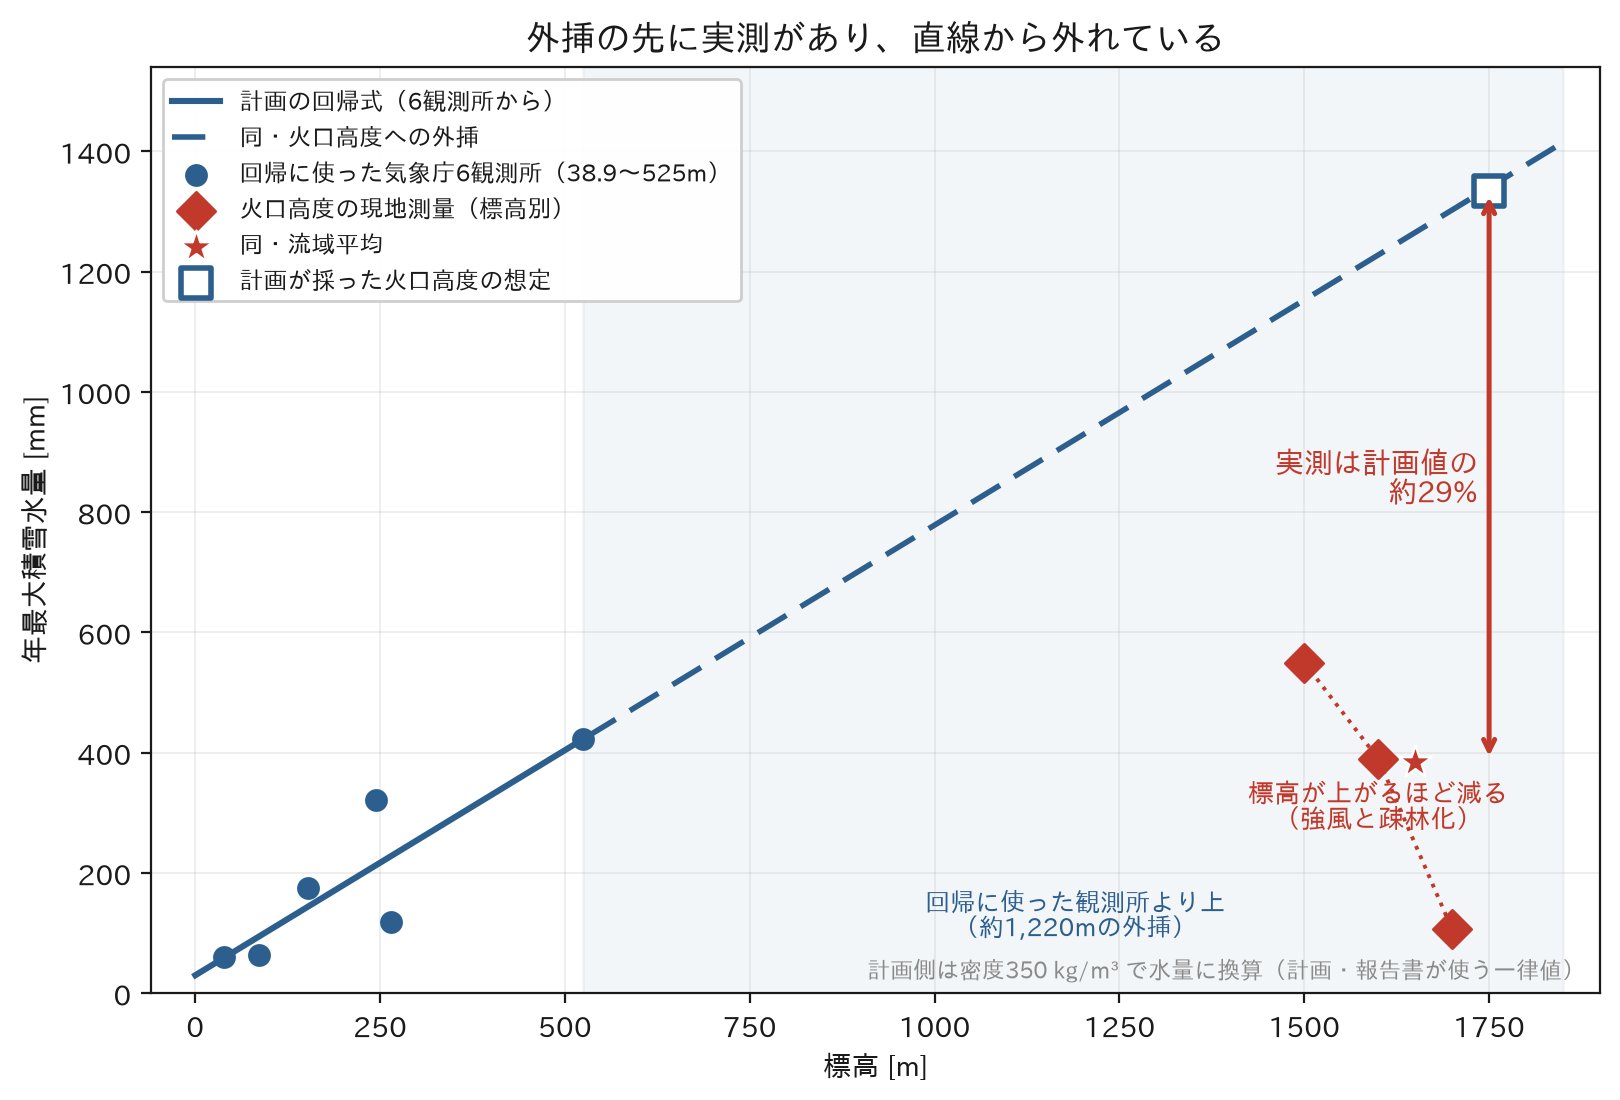
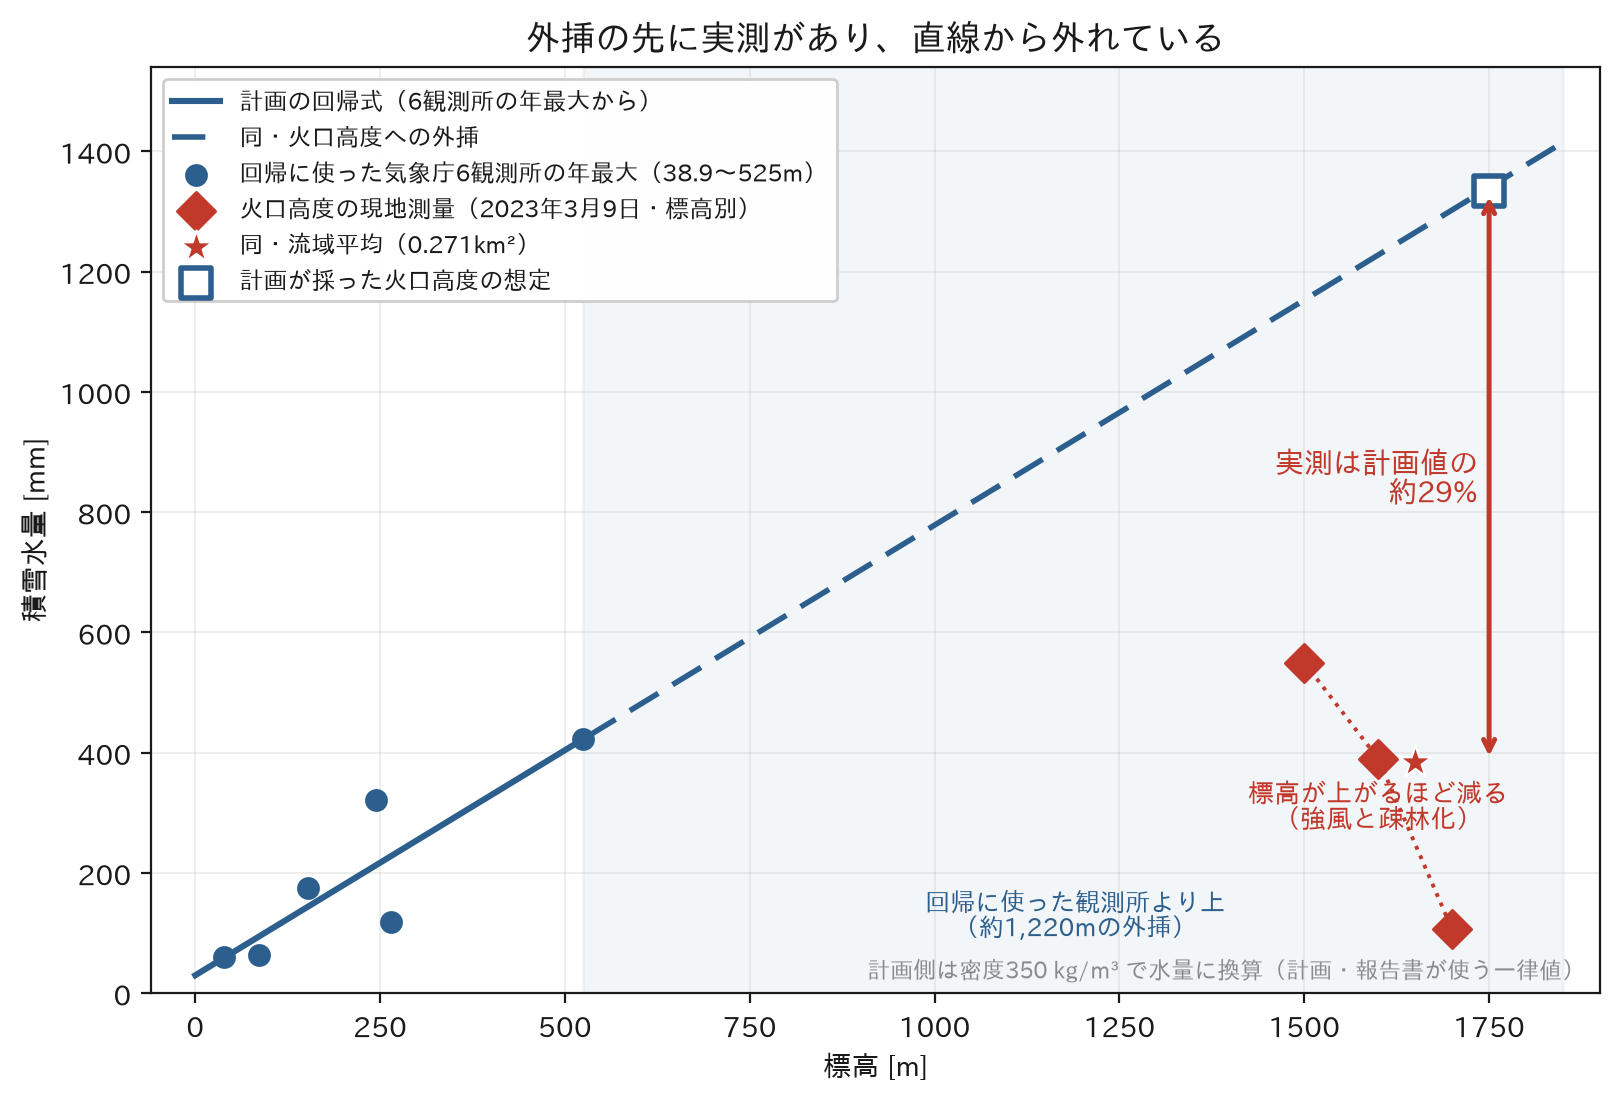
テーマ2 様式4: 第4サイクルの指摘4件に対応
4件のうち2件は、第3サイクルの修正が本文側・軸ラベル側に波及しきって
いなかったもの。

【中】
- T-30: ⑤と図4の「発注予定」が提出日には陳腐化する。一次資料は「公告予定
  年月：令和8年5月／入札予定時期：第2四半期」で、提出推奨日8/28には公告・
  入札が済んでいる可能性が高い。本文で唯一の未完了時制だった。出典の性格
  （公表された発注の見通し）に主語を寄せ「2026年度の発注見通しに…を挙げ」に
  置換し、図4のボックスも「検討が発注見通しに載る」に直して再生成した
- T-31: ③本文の「23〜38年」が中位推定の値であることが提出物の中で示されて
  いなかった。第3サイクルT-29で図の見出しにだけ「中位推定なら」を付けたため、
  同じ設問に限定のある図と限定のない本文が並んでいた。本文に「中位推定で」を
  挿入した
- T-32: 図2の縦軸「年最大積雪水量」が、同じ図の赤い実測点（2023年3月9日の
  単日測量）を正しく限定していなかった。第3サイクルT-27で物理量は本文に
  合わせたが、時間的限定が揃っていなかった。軸ラベルを「積雪水量」にし、
  限定を凡例側へ移した

【軽微】
- T-33: 提出直前チェック8が、実施スケジュール欄の2つ目の記載要求
  （「補強すべき事項と、その方法」）の転記を確認していなかった

字数: ③491→496、⑤494→495。見出し注記・着地表・着地値を実測で更新した
（着地値 ①479 ②487 ③499 ④492 ⑤497）。③は着地適用後の余裕が1字しかない
ので、以後③に字を足すときは着地手順3を測り直すことを本文に明記した。

Claude-Session: https://claude.ai/code/session_01ByiR9fmzyGadXHEVGXwJpb

diff --git a/theme2_ライフライン復旧/poc/src/make_figures_t2.py b/theme2_ライフライン復旧/poc/src/make_figures_t2.py
@@ -129,7 +129,7 @@ def fig2():
     # 回帰の範囲内は実線、その外（外挿）は破線。実線を全域に引くと破線が隠れる
     inr, out = x <= 525, x >= 525
     ax.plot(x[inr], (a * x[inr] + b) / 100.0 * RHO, color=BASE, lw=2.2, zorder=3,
-            label="計画の回帰式（6観測所から）")
+            label="計画の回帰式（6観測所の年最大から）")
     ax.plot(x[out], (a * x[out] + b) / 100.0 * RHO, color=BASE, lw=2.0,
             ls=(0, (6, 3)), zorder=3, label="同・火口高度への外挿")
     ax.axvspan(525, 1850, color=BASE, alpha=0.055, zorder=0)
@@ -137,11 +137,11 @@ def fig2():
             ha="center", fontsize=9, color=BASE)
 
     ax.scatter(st[:, 0], st[:, 1] / 100.0 * RHO, s=52, color=BASE, zorder=5,
-               label="回帰に使った気象庁6観測所（38.9〜525m）")
+               label="回帰に使った気象庁6観測所の年最大（38.9〜525m）")
     ax.scatter(uav[:, 0], uav[:, 1], s=95, marker="D", color=ACCENT, zorder=6,
-               label="火口高度の現地測量（標高別）")
+               label="火口高度の現地測量（2023年3月9日・標高別）")
     ax.scatter([1650], [basin_mean], s=150, marker="*", color=ACCENT, zorder=6,
-               edgecolor="white", linewidth=0.8, label="同・流域平均")
+               edgecolor="white", linewidth=0.8, label="同・流域平均（0.271km²）")
     ax.scatter([1750], [plan_at_crater], s=110, marker="s", color=BASE, zorder=6,
                facecolor="white", linewidth=2.0, label="計画が採った火口高度の想定")
 
@@ -159,7 +159,9 @@ def fig2():
     ax.text(1880, 18, "計画側は密度350 kg/m³ で水量に換算（計画・報告書が使う一律値）",
             fontsize=8.4, color=MUTED, ha="right", va="bottom")
 
-    ax.set_xlabel("標高 [m]"); ax.set_ylabel("年最大積雪水量 [mm]")
+    # 軸ラベルに「年最大」は付けない——青系列は年最大積雪深からの換算だが、赤系列は
+    # 2023年3月9日の単日測量であり、1本のラベルで両方を限定できない。限定は凡例側に置く
+    ax.set_xlabel("標高 [m]"); ax.set_ylabel("積雪水量 [mm]")
     ax.set_xlim(-60, 1900); ax.set_ylim(0, 1540)
     ax.grid(alpha=0.25, lw=0.6)
     ax.legend(loc="upper left", fontsize=8.6, framealpha=0.95)
@@ -237,8 +239,10 @@ def fig4():
     ax.text(0.525, 0.585, "同じ事業内容の行に\n「計画の改定」と「リアルタイム\nハザードマップの運用・整備」が並ぶ",
             ha="center", va="top", fontsize=8.8, color=MUTED, linespacing=1.4)
 
+    # 「発注予定」と書くと提出日には陳腐化する（公告は令和8年5月予定）。出典の性格＝
+    # 公表された発注の見通し、に主語を寄せて時制を持たせない
     _box(ax, 0.72, 0.63, 0.25, 0.24,
-         "需要は表に出ている\n\n那須岳で衛星による\n積雪深推定の検討を発注予定",
+         "需要は表に出ている\n\n那須岳で衛星による積雪深推定の\n検討が発注見通しに載る",
          fs=9.0, ec=ACCENT, lw=1.6, fc="#fdf0ee")
     ax.text(0.845, 0.585, "積雪計5基がある事務所が\n面的な推定を求めている",
             ha="center", va="top", fontsize=8.8, color=ACCENT, linespacing=1.4)

diff --git a/theme2_ライフライン復旧/12_提出版_様式4.md b/theme2_ライフライン復旧/12_提出版_様式4.md
@@ -42,11 +42,11 @@
 
 図2 山麓6観測所からの標高外挿と、火口高度の実測との食い違い（積雪水量）。
 
-## ３．衛星データ活用の有効性（本文491字／500字程度）
+## ３．衛星データ活用の有効性（本文496字／500字程度）
 
 手法は確立している。各年の消雪日を光学衛星で面的に求め、そこから日々の融雪量を後ろ向きに積算して、融雪開始時点の積雪水量を復元する。積雪の多い山域で検証例があり、新しいのは手法ではなく、これを火口周辺という誰も測っていない場所に、遡って当てる点である。
 
-観測の可否は、応募者自身が応募前にカタログを直接集計して実測した。8火山の火口半径3kmについて全シーンの雲量を集計し、消雪日を挟む晴天観測の間隔を評価した。消雪日を±10日で特定できる年は、2017年以降はどの火山でも10年中10年、1984年まで遡ると火山により23〜38年である。2年・10年超過確率には足りる。100年超過確率は外挿になるが、これは現在も同じで、既存計画は過去10年から30年の標本から外挿している。本提案が変えるのは外挿の有無ではなく、標本が火口周辺の実測分布か、山麓観測所からの標高外挿かである。
+観測の可否は、応募者自身が応募前にカタログを直接集計して実測した。8火山の火口半径3kmについて全シーンの雲量を集計し、消雪日を挟む晴天観測の間隔を評価した。消雪日を±10日で特定できる年は、2017年以降はどの火山でも10年中10年、1984年まで遡ると中位推定で火山により23〜38年である。2年・10年超過確率には足りる。100年超過確率は外挿になるが、これは現在も同じで、既存計画は過去10年から30年の標本から外挿している。本提案が変えるのは外挿の有無ではなく、標本が火口周辺の実測分布か、山麓観測所からの標高外挿かである。
 
 誤差の主因は融雪係数で、文献値の幅がそのまま±33%の系統誤差になる。ただし計画値と実測の食い違いは3.5倍あり、この誤差では取り違えない。係数は1年分の地上実測で較正でき、蔵王には公表された測量値がある。
 
@@ -78,17 +78,17 @@
 | 再解析＋水文モデル | 流域 | 流量観測がなく較正不可 | 可 |
 | 本提案（光学衛星） | 30m | 火口周辺を直接観測 | 約40年 |
 
-## ５．実用化による社会発展性（本文494字／500字程度）
+## ５．実用化による社会発展性（本文495字／500字程度）
 
 想定ユーザーは国土交通省の地方整備局砂防事務所と都道府県の砂防部局である。緊急減災対策砂防計画の対象は29火山、うち積雪火山21座、火山災害警戒地域は50火山179市町村にわたる。
 
 予算の口はある。国の火山土砂災害対策の事業内容に「緊急減災対策砂防計画の改定」と「リアルタイムハザードマップの運用・整備の推進」が並んでおり、本提案は前者から入って後者へ広がる。2027年度は計画とハザードマップの改定に伴う検討業務への技術提供を、建設コンサルタント等との共同提案で行う。2028年度以降、積雪火山21座への年次提供へ広げる。
 
-需要は既に表に出ている。国土交通省日光砂防事務所は2026年度に「那須岳火山噴火緊急減災対策検討業務」として衛星を活用した積雪深推定の検討を発注予定であり、同火山には積雪計5基がある。点の計器を持つ事務所が面的な推定を求めている。本提案が担うのは当年値ではなく、当年値では作れない多年の年超過確率分布であり、両者は前後の関係にある。
+需要は既に表に出ている。国土交通省日光砂防事務所は2026年度の発注見通しに「那須岳火山噴火緊急減災対策検討業務」として衛星を活用した積雪深推定の検討を挙げ、同火山には積雪計5基がある。点の計器を持つ事務所が面的な推定を求めている。本提案が担うのは当年値ではなく、当年値では作れない多年の年超過確率分布であり、両者は前後の関係にある。
 
 応募者は電力需給予測を本業とし、気象の確率分布を日々の運用判断へ翻訳している。確率分布を計画の設計値に翻訳する仕事は、その延長にある。
 
-> ［図表1点］**作成済み** `poc/out/fig/t2_fig4_business.png`。顧客・課金・年次の1枚図（2027年度＝計画改定の検討業務、2028年度以降＝21座への年次提供、予算行の所在、那須岳の発注予定）。実施スケジュールとは別枠なので混同しないこと。
+> ［図表1点］**作成済み** `poc/out/fig/t2_fig4_business.png`。顧客・課金・年次の1枚図（2027年度＝計画改定の検討業務、2028年度以降＝21座への年次提供、予算行の所在、那須岳の発注見通し）。実施スケジュールとは別枠なので混同しないこと。
 
 図4 想定ユーザー、予算の所在、事業化の二段階。
 
@@ -138,21 +138,21 @@
 |---|---|---|---|
 | ① | 491 | 32 | 523 |
 | ② | 500 | 37 | 537 |
-| ③ | 491 | 29 | 520 |
+| ③ | 496 | 29 | 525 |
 | ④ | 492 | 137（表1本体を含む） | **629** |
-| ⑤ | 494 | 23 | 517 |
+| ⑤ | 495 | 23 | 518 |
 
 **回答が「本文のみを数える」の場合**: 現状のまま。全設問500字以内で確定。
 
 **回答が「図表の文字も算入する」の場合**: 合算が500字を超えるので削る。**削るのではなく置換して文が破断しないようにする**。
 
-以下の着地値は**手順を実際に適用して測った合算値**である（見込み値ではない）。全設問を適用すると ①479 ②487 ③494 ④492 ⑤496 で、すべて500字以内に収まる。
+以下の着地値は**手順を実際に適用して測った合算値**である（見込み値ではない）。全設問を適用すると ①479 ②487 ③499 ④492 ⑤497 で、すべて500字以内に収まる。
 
 1. **④**（超過が最も大きい）: **表1とそのキャプション行を両方とも落として図表なしにする。** 3列化では届かない（表本体を90字に減らしても 492＋90＋20＝602字）。両方落とすと**合算492字**で着地する（実測）。④の立証は本文の4手法の記述で足りる
 2. **②**: 「計画の図にある道路管理者の観測点（標高800〜1,100m）も回帰に使われず、直線より3〜4割低い。」を削る（外挿の否定は次段落の現地測量で足りる）。**合算487字**で着地（実測）
-3. **③**: 「積雪の多い山域で検証例があり、新しいのは手法ではなく、これを火口周辺という誰も測っていない場所に、遡って当てる点である。」を「新しいのは手法ではなく、火口周辺という誰も測っていない場所に遡って当てる点である。」に置換し（−19字）、**あわせてキャプションを**「図3 消雪日を特定できる年数の実測（8火山・カタログ集計）。」→「図3 消雪日を特定できる年数の実測（8火山）。」に短縮する（−7字）。置換だけでは501字で1字超過するため、キャプション短縮を必ず併せること。**合算494字**で着地（実測）
+3. **③**: 「積雪の多い山域で検証例があり、新しいのは手法ではなく、これを火口周辺という誰も測っていない場所に、遡って当てる点である。」を「新しいのは手法ではなく、火口周辺という誰も測っていない場所に遡って当てる点である。」に置換し（−19字）、**あわせてキャプションを**「図3 消雪日を特定できる年数の実測（8火山・カタログ集計）。」→「図3 消雪日を特定できる年数の実測（8火山）。」に短縮する（−7字）。置換だけでは506字で超過するため、キャプション短縮を必ず併せること。**合算499字**で着地（実測。500字までの余裕は1字しかないので、③はこれ以上増やさないこと）
 4. **①**: 「気象庁が積雪深を測る336地点の最高は1,292mで、火口より937〜2,916m低い。」を削る（同じ事実は④にある）。**合算479字**で着地（実測）
-5. **⑤**: 「緊急減災対策砂防計画の対象は29火山、うち積雪火山21座、火山災害警戒地域は50火山179市町村にわたる。」を「緊急減災対策砂防計画の対象は29火山、うち積雪火山21座である。」に**置換**する（削ると述語が消えて文が破断する）。**合算496字**で着地（実測）
+5. **⑤**: 「緊急減災対策砂防計画の対象は29火山、うち積雪火山21座、火山災害警戒地域は50火山179市町村にわたる。」を「緊急減災対策砂防計画の対象は29火山、うち積雪火山21座である。」に**置換**する（削ると述語が消えて文が破断する）。**合算497字**で着地（実測）
 
 **削った後は必ず `count_chars.py` で再計測し、この表の数値を更新すること**（見込み値を書かない）。
 
@@ -201,7 +201,7 @@
    - (c) 事務局照会の**質問4の回答が「算入する」だった場合は、図表とキャプションを含む合算で判定し、「回答別の着地」節の手順を先に適用してから (a)(b) をやり直す**
 7. 図表が各設問1点を超えていないこと（図と表は同じ枠）。**4図とも作成済みなので、①②③⑤に図1〜図4、④に表1が1点ずつ入っていること**（貼り忘れた設問はキャプション行も転記しない）
    - **ただし6(c)で着地手順1を適用した場合、④は表1とキャプション行を両方落として図表なしになる。このときは①②③⑤の4点だけを確認すること**（この分岐を書かないと、着地を適用した状態でこのチェックが必ず不合格になる）
-8. 実施スケジュールが2026年10月〜2027年6月を月別で覆っていること
+8. 実施スケジュールが2026年10月〜2027年6月を月別で覆っており、**「補強すべき事項と、その方法」の段落も転記されていること**（様式はこの欄に月別の取り組みと補強事項の2つを求めている。月別表だけ転記して段落を落とす事故を防ぐ）
 9. Markdown記法（`**`、`>`、`|`、`#`）が残っていないこと
 10. 見出しの字数注記、`>` で始まる行、【提出時に削除】節が転記されていないこと
 11. フォントが様式の指定（MSゴシック11pt）になっていること

diff --git a/theme2_ライフライン復旧/review_t2_様式適合.md b/theme2_ライフライン復旧/review_t2_様式適合.md
@@ -14,7 +14,8 @@
 | 第1 | 14件（T-1〜T-14） | 0 | 3 | 提出物の骨格が形式適合した |
 | 第2 | 11件（T-15〜T-25） | 0 | 1 | 着地手順が算術的に閉じた |
 | 第3 | 4件（T-26〜T-29） | 0 | 0 | 図版と本文の量が一致した |
-| 第4 | — | — | — | （実施中） |
+| 第4 | 4件（T-30〜T-33） | 0 | 0 | 図と本文の限定が揃った |
+| 第5 | — | — | — | （実施中） |
 
 ---
 
@@ -80,6 +81,24 @@
 ### このサイクルの学び
 
 **図版を入れると、本文と図の間に新しい食い違いが生まれる。** 4件中3件（T-26を除く全件）がそれで、図が無かった第1・第2サイクルでは原理的に出得なかった指摘である。とくにT-27は、レビューアの指摘（本文と図で量が違う）を追ったら**その下に別の問題（図の値が原典に無い派生値）が埋まっていた**——指摘をそのまま実装せず、原典に当たり直したから見つかった。**レビューアは原典を精査しないので、指摘の当否と修正の内容は自分で確かめること。**
+
+## 第4サイクル T-30〜T-33（全数対応済み）
+
+第3サイクルで図を直した直後。**4件のうち2件（T-31・T-32）は、前サイクルの修正が本文側／軸ラベル側に波及しきっていなかったもの**である。
+
+【中】
+- **T-30** ⑤と図4の「発注予定」が提出日には陳腐化する。一次資料は「公告予定年月：令和8年5月／入札予定時期：第2四半期」で、提出推奨日8/28には公告・入札が済んでいる可能性が高い。本文で唯一の未完了時制だった → 出典の性格（公表された発注の見通し）に主語を寄せ「2026年度の**発注見通しに**…**を挙げ**」に置換（+1字）。図4のボックスも「検討が発注見通しに載る」に直して再生成
+- **T-31** ③本文の「23〜38年」が中位推定の値であることが提出物の中で示されていなかった。第3サイクルT-29で**図の見出しにだけ**「中位推定なら」を付けたため、同じ設問に限定のある図と限定のない本文が並んでいた → 本文に「**中位推定で**」を挿入（+5字）
+- **T-32** 図2の縦軸「年最大積雪水量」が、同じ図の赤い実測点（2023年3月9日の単日測量）を正しく限定していなかった。第3サイクルT-27で物理量（積雪深→積雪水量）は本文に合わせたが、時間的限定が揃っていなかった → 軸ラベルを「積雪水量 [mm]」にし、限定を凡例側へ移した（青系列＝「6観測所の年最大から」、赤系列＝「2023年3月9日・標高別」、流域平均＝「0.271km²」）
+
+【軽微】
+- **T-33** 提出直前チェック8が、実施スケジュール欄の2つ目の記載要求を確認していなかった。様式はこの欄に月別の取り組みと「補強すべき事項と、その方法」の2つを求めている → チェック8に段落の存在確認を追加
+
+字数への影響: ③491→496、⑤494→495。見出し注記・着地表・着地値を実測で更新した（着地値 ①479 ②487 ③499 ④492 ⑤497）。**③は着地適用後の余裕が1字しかない**ので、以後③に字を足すときは着地手順3を測り直すこと。
+
+### このサイクルの学び
+
+**図を直すと、その修正は本文・軸ラベル・凡例・キャプションの4箇所に波及する。** T-31・T-32はどちらも「第3サイクルで直した内容が、直した場所の外に届いていなかった」ものだった。図に手を入れたら、同じ主張を載せている本文と、図の中の限定語（軸・凡例・見出し）を突き合わせること。
 
 ## サイクル外の変更（レビュー指摘ではないが、次のサイクルが前提にすべき事実）
 
